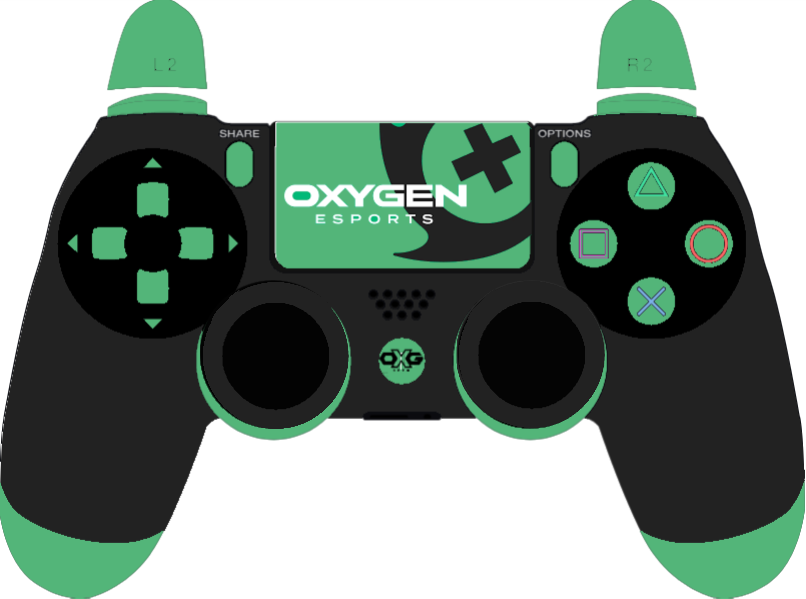
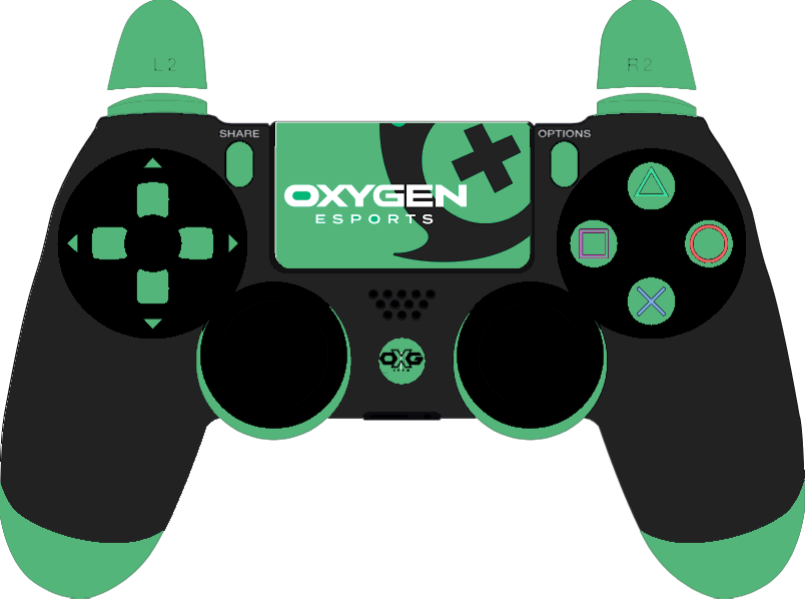
Add files via upload

Changed region(s): [[0.5583, 0.4508, 0.7754, 0.7212], [0.2481, 0.4508, 0.4342, 0.7212]]

diff --git a/Final/final.css b/Final/final.css
@@ -189,7 +189,7 @@ background-position: 0 -70px;
 
 .ds4 .stick {
     position: absolute;
-    background: url(stick.png);
+    background: url(sticks.png);
     height: 94px;
     width: 94px;
 }
